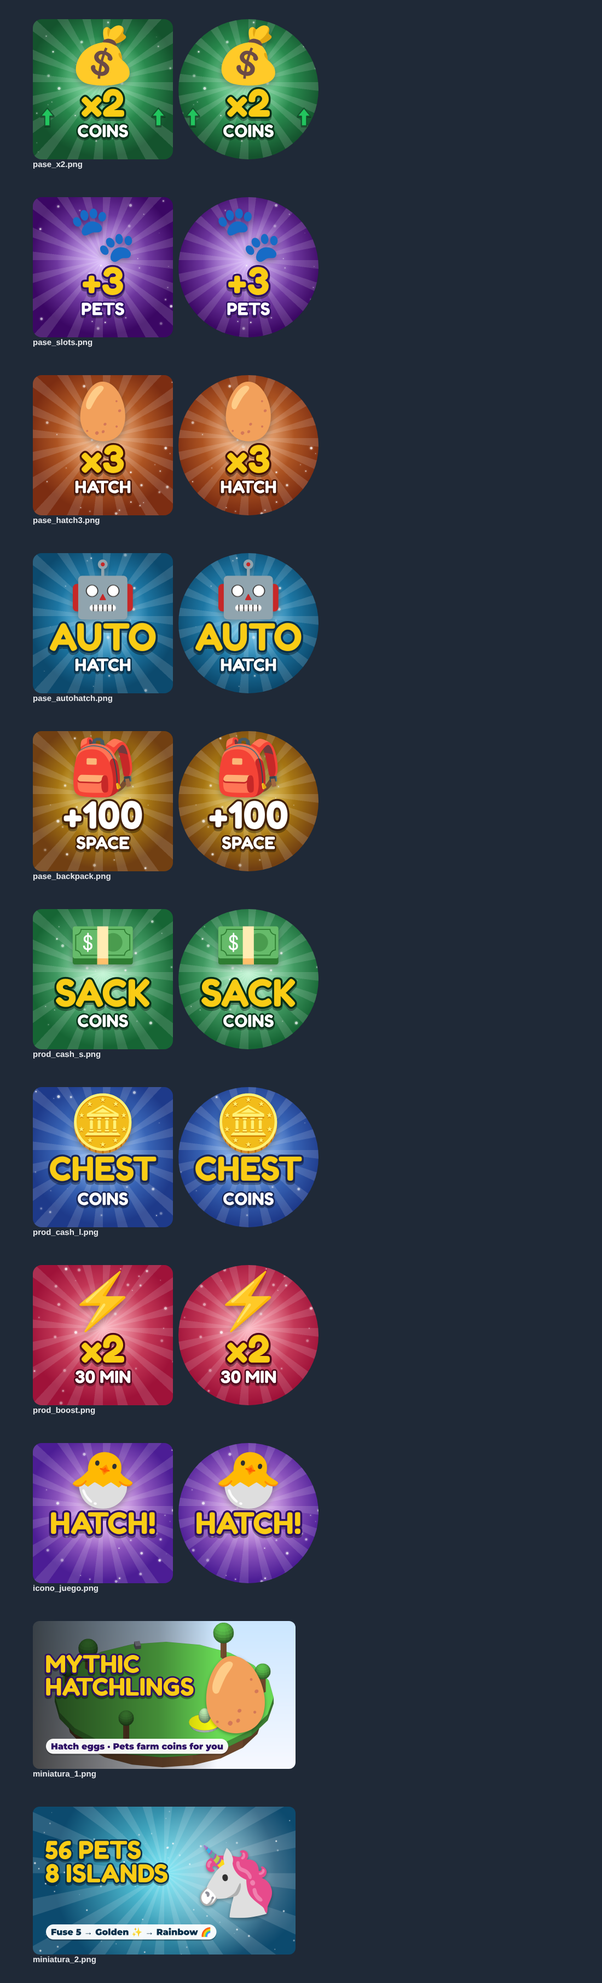
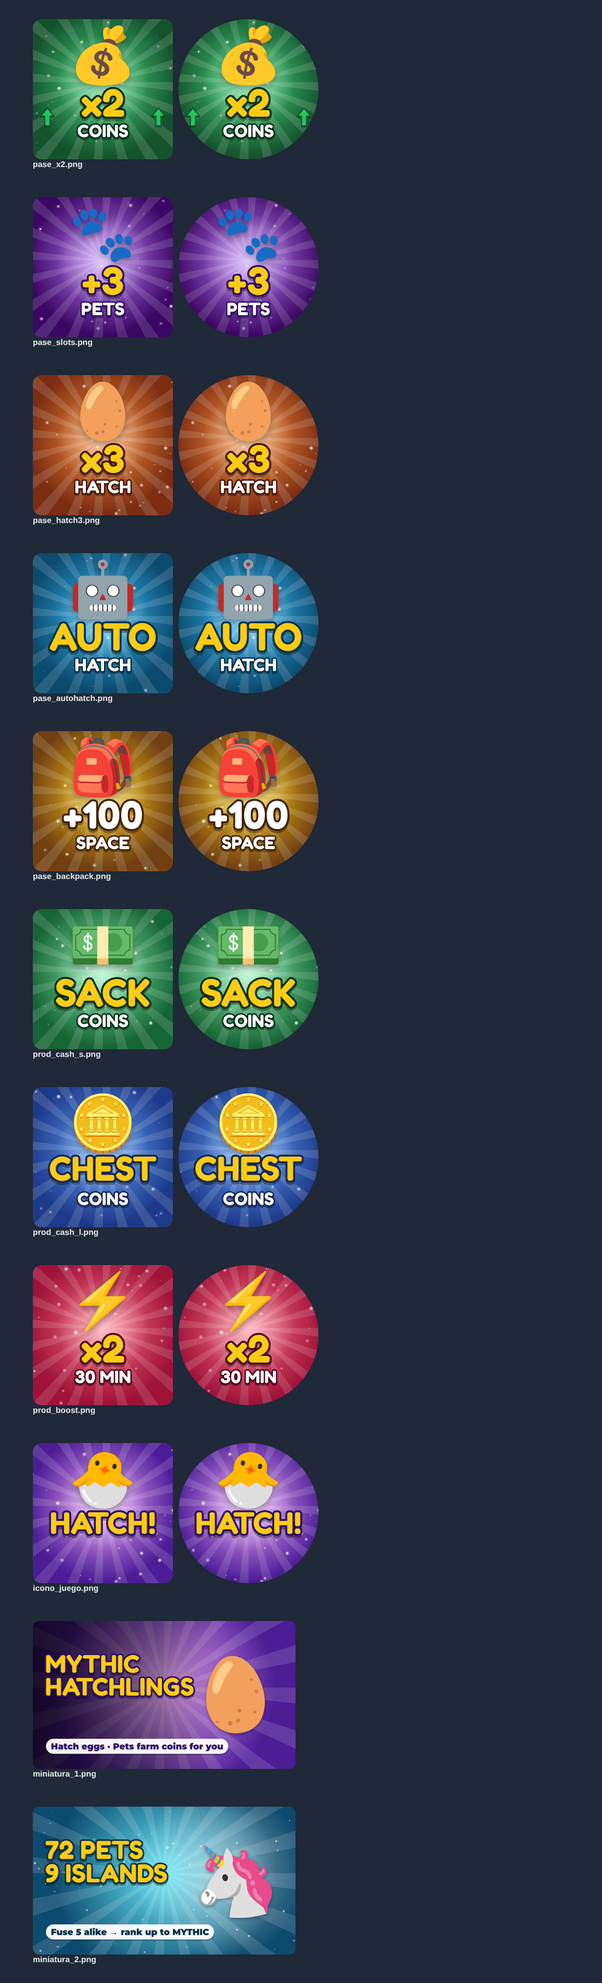
Crías Míticas: marketing y miniatura 2 al día con la v0.4
Ficha ES/EN, notas v0.4, guiones y plan sin Renacer ni Dorada/Arcoíris.
Miniatura 2: 72 crías, 9 islas, fusión hasta Mítica.

Claude-Session: https://claude.ai/code/session_01TK9z3JhdpesQ8a3fbhWHzn

Changed region(s): [[0.0309, 0.8114, 0.4945, 0.9674]]

diff --git a/roblox-crias-miticas/marketing/plan.md b/roblox-crias-miticas/marketing/plan.md
@@ -1,64 +1,68 @@
-# Plan de lanzamiento gratis — Mythic Hatchlings (3 semanas)
+# Plan de lanzamiento gratis — Mythic Hatchlings v0.4 (3 semanas)
 
 **Meta final:** 250 jugadores activos **16+ con edad verificada** para que Roblox quite la limitación 16+
-(CLAUDE.md raíz §11; la regla exacta y cómo cuenta «activo» la decide Roblox: ≈, no la he podido medir).
+(CLAUDE.md raíz §11; cómo cuenta «activo» lo decide Roblox: ≈, no lo he podido medir).
 **Coste:** 0 Robux. La opción de pago (50.000 Robux reembolsables) no es realista ahora (tienes ~7).
 
-> ⚠ Lo más importante: mientras dure la limitación, **solo pueden entrar personas de 16+ con la edad verificada**.
-> Tus amigos de clase de menos de 16 no cuentan (ni pueden entrar). Busca: hermanos mayores, primos, amigos 16+,
-> comunidades de Roblox de adultos/adolescentes mayores. Esto hace que 250 sea **difícil**: puede tardar más de 3 semanas.
+> ⚠ Mientras dure la limitación, **solo entran personas de 16+ con la edad verificada**. Amigos de menos de 16 no
+> cuentan (ni pueden entrar). Busca hermanos mayores, primos, amigos 16+. Por eso 250 es **difícil**: puede tardar más de 3 semanas.
+
+**Qué vendemos (v0.4):** abres huevos → tus crías rompen cristales → fusionas 5 iguales en el Altar → subes de rareza
+hasta **Mítica** → cada Mítica da 1 **Piedra de Renacimiento** → la gastas en el **Jardín de Mejoras** (12 pedestales con
+caminos de neón). Islas que se abren con el **Álbum**, **Brillantes** al 1 % e isla 9 Aurora con 200 de puntuación Brillante.
+**Ya no existen** Renacer como reinicio, Doradas ni Arcoíris: no los menciones en ningún sitio.
 
 ## Semana 0 — Antes de publicar (1–2 días)
-- [ ] Probar en Studio (Play) y hacer **3–4 capturas reales**: crías siguiéndote, apertura de huevo, una Dorada, una isla
-      avanzada. Sirven para miniaturas mejores y para los vídeos. (Pásaselas a Claude para rehacer `miniatura_1`.)
-- [ ] Publicar (Studio → File → Publish to Roblox As… → nueva experiencia), activar API Services, pegar la ficha
-      (`ficha.md`), subir icono y miniaturas (`docs/arte/`).
-- [ ] Crear los 5 pases y 3 productos con los iconos de `docs/arte/` (o dejarlos para la semana 2: el juego funciona sin ellos).
-- [ ] **Grupo de Roblox** (gratis): «Mythic Hatchlings Fans». Creator Hub → Groups → Create (crear grupo cuesta
-      **100 Robux** ≈; si no llega, salta este punto y usa solo Discord). Si se crea, la experiencia puede ir en el grupo
-      más adelante; **ahora mismo no la muevas** (dueño = tu cuenta, más simple).
-- **Meta medible:** juego publicado con icono, 2 miniaturas aprobadas por moderación y la ficha ES/EN.
+- [ ] Probar en Studio (Play, con el pack de modelos importado, `modelos/LEEME.md`) y hacer **4 capturas reales**:
+      crías-animales siguiéndote entre cristales · el Altar con «¡NUEVA CRÍA!» tras fusionar · el **Jardín de Mejoras**
+      desde arriba con los caminos de neón · un huevo abriéndose con el % visible. Pásaselas a Claude para rehacer la miniatura 2.
+- [ ] **No subas `docs/arte/miniatura_2.png`**: dice «Golden/Rainbow» y «56 pets», ya no es verdad (ver `ficha.md`).
+      Sube el icono y la miniatura 1; la 2 cuando esté rehecha.
+- [ ] Publicar (Studio → File → Publish to Roblox As… → experiencia NUEVA), activar API Services, pegar la ficha
+      (`ficha.md`) y las notas (`notas-v0.4.md`).
+- [ ] Pases: solo los 5 (x2, +3 huecos, Abrir x3, Auto-abrir, Mochila). **No crear** packs de monedas ni boost
+      (con ellos los huevos se pagarían indirectamente con Robux). Se pueden dejar para la semana 2: el juego funciona sin ellos.
+- [ ] Grupo de Roblox: crear uno cuesta ≈ 100 Robux → **sáltalo** por ahora; usa Discord.
+- **Meta medible:** juego publicado con icono, 1 miniatura aprobada por moderación y la ficha ES/EN.
 
 ## Semana 1 — Amigos y primera comunidad (meta: 20–30 jugadores 16+ distintos)
-- Día 1: mensaje a 10–15 personas 16+ que conozcas, con el enlace del juego. Texto:
-  - ES: «He hecho mi primer juego de Roblox: abres huevos y tus crías rompen monedas por ti. ¿Lo pruebas 10 minutos y me dices qué mejorarías? [enlace]»
-  - EN: «I made my first Roblox game: hatch eggs and your pets break coin piles for you. Can you try it for 10 min and tell me what to improve? [link]»
+- Día 1: mensaje a 10–15 personas 16+ que conozcas, con el enlace:
+  - ES: «He hecho mi primer juego de Roblox: abres huevos, tus crías rompen cristales y fusionas 5 iguales para subirlas hasta Mítica. ¿Lo pruebas 15 minutos y me dices qué mejorarías? [enlace]»
+  - EN: «I made my first Roblox game: hatch eggs, your pets break crystals, and you fuse 5 alike to rank them up to Mythic. Can you try it for 15 min and tell me what to improve? [link]»
 - **Discord** (gratis, 13+): servidor «Mythic Hatchlings» con 5 canales:
-  `#📢novedades-updates` · `#💬general` · `#🐣mis-crías-my-pets` (capturas de raras) · `#🐛fallos-bugs` · `#💡ideas`.
-  Normas fijas: nada de datos personales, nada de intercambiar cuentas ni Robux, ser amable. Activa el filtro
-  automático de contenido (AutoMod) y verificación de nivel «Medio».
-- Vídeos 1 y 2 (`videos.md`), en ES y EN.
-- **Mirar:** visitas totales, «Unique players», duración media de sesión.
+  `#📢novedades-updates` · `#💬general` · `#🐣mis-crías-my-pets` (capturas de Míticas y Brillantes) · `#🐛fallos-bugs` · `#💡ideas`.
+  Normas fijas: nada de datos personales, nada de intercambiar cuentas ni Robux, ser amable. Activa AutoMod y
+  verificación de nivel «Medio».
+- Vídeos 1 y 5 de `videos.md` (se graban en los primeros minutos de juego), en ES y EN.
+- **Mirar:** visitas, jugadores únicos, duración media de sesión.
 
 ## Semana 2 — Vídeos y evento de lanzamiento (meta: 80–120 acumulados)
-- 3–4 vídeos más (vídeo 3 + variaciones). Responder a todos los comentarios.
-- **Evento de lanzamiento** (sábado o domingo, 1 hora, p. ej. 18:00 hora de España = 12:00 en Nueva York EST): tú juegas
-  en directo dentro del juego con quien venga. Anúncialo 3 días antes en Discord, grupo y vídeos.
-  Lo que es verdad y puedes decir: «Play with friends: +10% coins for each friend in the server» y «Who gets the first
-  Mythic?». **No prometas premios en Robux** ni sorteos (no tienes Robux y los sorteos tienen reglas legales).
-  Premio posible gratis: mención en Discord + rol «🐣 Fundador/Founder».
-- Pedir valoración: «Si te ha gustado, dale 👍 en la página del juego» (es legítimo pedirlo; no lo pongas como requisito de nada).
-- **Mirar:** retención D1 (≥ 15 % sería bueno para empezar ≈), duración de sesión (≥ 8 min ≈), nº de 👍.
+- Vídeos 3 y 4 (+ el 2 si ya creaste una Mítica de verdad). Responder a todos los comentarios.
+- **Evento de lanzamiento** (sábado o domingo, 1 hora, p. ej. 18:00 hora de España = 12:00 en Nueva York): juegas con quien
+  venga. Anúncialo 3 días antes en Discord y en los vídeos. Lo que es verdad y puedes decir:
+  «+10 % coins for each friend in your server» y «Who fuses the most today?» / «¿Quién fusiona más hoy?».
+  Como cada 3 min sale un **Montón Dorado**, en 1 hora hay ≈ 20: «¡Rompamos los Montones Dorados juntos!» es verdad.
+  **No prometas premios en Robux ni sorteos.** Premio gratis: mención en Discord + rol «🐣 Fundador/Founder».
+- Pedir valoración: «Si te ha gustado, dale 👍 en la página del juego» (legítimo; nunca como requisito de nada).
+- **Mirar:** retención D1 (≥ 15 % ≈ buen inicio), duración de sesión (≥ 10 min ≈), nº de 👍.
 
-## Semana 3 — Arreglar lo que diga la gente y versión 0.4 (meta: 150–250)
-- Leer `#fallos-bugs` y `#ideas` → pasar a Claude los 3 problemas más repetidos.
-- Sacar la v0.4 (arte 3D de las crías) con **miniatura nueva** y notas de versión: las actualizaciones visibles atraen
-  de vuelta a quien ya jugó.
-- 2.º evento (mismo formato) y otro vídeo «nueva actualización» (solo si de verdad hay algo nuevo).
-- Si no se llega a 250: es normal; seguir el mismo ritmo semanal (2–3 vídeos + 1 evento). No compres anuncios aún.
+## Semana 3 — Arreglar lo que diga la gente (meta: 150–250)
+- Leer `#fallos-bugs` y `#ideas` → pasar a Claude los 3 problemas más repetidos (p. ej. «no encuentro el Altar»,
+  «la mochila se llena», «tardo mucho en la 1.ª Mítica»).
+- Si sale una versión con algo nuevo de verdad: miniatura nueva + notas + vídeo «actualización».
+- 2.º evento con el mismo formato.
+- Si no se llega a 250: es normal; seguir 2–3 vídeos + 1 evento por semana. No compres anuncios aún.
 
 ## Qué medir en el Creator Hub (tras publicar)
 Creator Hub → Creations → Mythic Hatchlings → **Analytics**:
 
-| Métrica | Dónde | Qué indica | Señal buena (≈ orientativa) |
+| Métrica | Qué indica | Señal buena (≈ orientativa) | Si va mal |
 |---|---|---|---|
-| Visitas y jugadores únicos | Overview / Acquisition | si llega gente | crecer cada semana |
-| **Retención D1 y D7** | Retention | si vuelven | D1 ≥ 15 %, D7 ≥ 4 % al principio |
-| **Duración media de sesión** | Engagement | si engancha | ≥ 8–10 min |
-| Conversión de la ficha (impresiones → jugadas) | Acquisition / Discovery | si el icono y la miniatura atraen | si es baja, cambiar icono/miniatura 1 |
-| Abandono en los primeros 5 min | Engagement / Funnel (si existe) | si el inicio aburre | — |
-| 👍 / 👎 | página del juego | opinión | ≥ 80 % 👍 |
-| Compras y conversión de pago | Monetization | solo informativo; no es la meta ahora | — |
-| Edad de jugadores (si aparece) | Audience | cuántos 16+ hay | — |
+| Visitas y jugadores únicos | si llega gente | crecer cada semana | más vídeos / cambiar miniatura |
+| Conversión de la ficha (impresiones → jugadas) | si icono y miniatura atraen | — | probar otra miniatura (captura real del Jardín) |
+| **Duración media de sesión** | si engancha | ≥ 10 min | el inicio (1.ª fusión ~3 min) no se entiende → Vega/Nico |
+| **Retención D1 / D7** | si vuelven | D1 ≥ 15 %, D7 ≥ 4 % | la meta larga (Mítica → piedras) no se ve → Nico |
+| 👍 / 👎 | opinión | ≥ 80 % 👍 | leer comentarios y Discord |
+| Edad de jugadores (si aparece) | cuántos 16+ | — | buscar comunidades 16+ |
 
-Mándale los números a Claude (captura de la pantalla de Analytics) y te digo qué cambiar.
+Mándale a Claude una captura de Analytics y te digo qué cambiar.

diff --git a/roblox-crias-miticas/marketing/ficha.md b/roblox-crias-miticas/marketing/ficha.md
@@ -1,81 +1,97 @@
-# Ficha del juego — Mythic Hatchlings (Crías Míticas) · v0.3
+# Ficha del juego — Mythic Hatchlings (Crías Míticas) · v0.4
 
 > Para pegar en Creator Hub → la experiencia → **Configure** (inglés = idioma principal) y en
-> **Localization → Game Information → Spanish** (versión en español). Todo lo que dice existe en la v0.3.
+> **Localization → Game Information → Spanish** (versión en español). Todo lo que dice existe en la v0.4
+> (números sacados de `src/ReplicatedStorage/Config.luau` y `Lang.luau`, 2026-10-26).
+> Ya **no** existen (no los menciones nunca): Renacer/Rebirth como reinicio, crías Doradas/Arcoíris, puertas que cuestan monedas.
 
 ## Título
 
 | | Texto | Por qué |
 |---|---|---|
-| **EN (principal)** | `Mythic Hatchlings: Hatch & Collect Pets` | Nombre propio + lo que haces. «Hatch» y «Pets» son lo que la gente busca en Roblox. 39 caracteres (límite 50). |
-| **ES** | `Crías Míticas: Abre Huevos y Colecciona` | Mismo esquema en español. |
+| **EN (principal)** | `Mythic Hatchlings: Hatch & Fuse Pets` | Nombre propio + las 2 acciones del juego. «Hatch» y «Pets» son lo que la gente busca; «Fuse» dice qué lo hace distinto. 36 caracteres (límite 50). |
+| **ES** | `Crías Míticas: Abre Huevos y Fusiona` | Mismo esquema en español. 36 caracteres. |
 
-Sin emojis en el título: Roblox ha ido limitando símbolos en los títulos y no hacen falta (≈ no lo he comprobado hoy).
-Nunca: «Simulator» con nombre de otro juego, «Free», «UPDATE» falso ni «x1000».
+Sin emojis en el título (≈ Roblox limita símbolos en títulos; no lo he comprobado hoy). Nunca: «Free», «UPDATE» falso, «x1000» ni el nombre de otro juego.
 
 ## Descripción EN (≤ 1.000 caracteres)
 
 ```
-Hatch magical eggs and collect 56 mythic pets that follow you and break coin piles for you! 🐣
-Unlock 8 floating islands, fuse pets into Golden and Rainbow versions, and complete the Pet Index.
+Hatch eggs and collect 72 pets that follow you and break crystals for coins! 🐣
+Fuse 5 alike to rank them up all the way to Mythic, earn Rebirth Stones and grow your Upgrade Garden.
 
-🥚 8 islands, 8 eggs, 56 pets (Common → Mythic) – odds shown on every egg
-✨ Fuse 5 of the same pet → Golden (x3 power) → Rainbow (x9)
-📖 Pet Index: collect them all for permanent coin bonuses
-🔁 Rebirth for a permanent coin multiplier (you keep your pets!)
-🎯 3 daily missions + 7-day daily reward streak
+🥚 9 islands, 72 pets, 8 rarities: Common → Uncommon → Rare → Epic → Legendary → Prodigious → Ascended → Mythic
+🌀 Fusion Altar: 5 alike from one island → the next rarity (3 from Prodigious)
+🪨 Every Mythic you create = 1 Rebirth Stone
+🌳 Upgrade Garden: 12 upgrades on glowing pedestals (more coins, more pets equipped, faster hatching…)
+📖 Discover pets in the Index to open new islands
+✨ 1% Shiny pets (x2 power). Reach 200 Shiny score to open island 9: Aurora Sanctuary
+🌟 A Golden Pile appears every 3 minutes
+🎯 3 daily missions + 7-day reward streak
 👥 +10% coins for each friend in your server (up to 4)
 🌍 English & Español
 
-Eggs are bought with in-game coins. Every egg shows its odds.
-
-v0.3: islands 4–8 (Golden Dunes, Ember Volcano, Crystal Glacier, Cloud Sea, Cosmos), Rebirth, daily missions and offline coins.
+Eggs are bought with in-game coins and show their odds. Stones and upgrades are earned only by playing.
 ```
 
 ## Descripción ES
 
 ```
-¡Abre huevos mágicos y colecciona 56 crías míticas que te siguen y rompen montones de monedas por ti! 🐣
-Abre 8 islas flotantes, fusiona tus crías en versión Dorada y Arcoíris y completa el Álbum Mítico.
+¡Abre huevos y colecciona 72 crías que te siguen y rompen cristales para darte monedas! 🐣
+Fusiona 5 iguales para subirlas de rareza hasta Mítica, gana Piedras de Renacimiento y haz crecer tu Jardín de Mejoras.
 
-🥚 8 islas, 8 huevos, 56 crías (Común → Mítica): probabilidades a la vista en cada huevo
-✨ Junta 5 iguales → Dorada (poder x3) → Arcoíris (x9)
-📖 Álbum Mítico: colecciónalas todas y gana bonus de monedas para siempre
-🔁 Renace para multiplicar tus monedas para siempre (¡conservas tus crías!)
-🎯 3 misiones diarias + racha de recompensa diaria de 7 días
+🥚 9 islas, 72 crías y 8 rarezas: Común → Poco común → Rara → Épica → Legendaria → Prodigiosa → Ascendida → Mítica
+🌀 Altar de Fusión: 5 iguales de una isla → la rareza siguiente (3 desde Prodigiosa)
+🪨 Cada Mítica que creas = 1 Piedra de Renacimiento
+🌳 Jardín de Mejoras: 12 mejoras en pedestales (más monedas, más crías equipadas, abrir más rápido…)
+📖 Descubre crías en el Álbum para abrir islas nuevas
+✨ Brillantes al 1 % (poder x2). Con 200 de puntuación Brillante se abre la isla 9: Santuario Aurora
+🌟 Cada 3 minutos aparece un Montón Dorado
+🎯 3 misiones diarias + racha diaria de 7 días
 👥 +10 % de monedas por cada amigo en tu servidor (máx. 4)
 🌍 English y Español
 
-Los huevos se compran con monedas del juego. Cada huevo muestra sus probabilidades.
-
-v0.3: islas 4–8 (Dunas Doradas, Volcán Brasa, Glaciar Cristal, Mar de Nubes, Cosmos), Renacer, misiones diarias y monedas sin conexión.
+Los huevos se compran con monedas del juego y muestran sus probabilidades. Piedras y mejoras solo se ganan jugando.
 ```
 
+(Las notas de la versión van aparte: `notas-v0.4.md`. Si quieres, pégalas debajo de la descripción.)
+
 ### Por qué estas frases
-- **Línea 1** = qué haces + la gracia (las crías trabajan por ti). Es lo único que mucha gente lee en el móvil.
-- **Línea 2** = la meta larga (islas, fusión, álbum) → motivo para volver.
-- Lista corta con números reales (56 / 8 / x3 / x9 / +10 %) sacados de `Config.luau`, no inventados.
-- «Odds shown» genera confianza en padres y jugadores. NO decir «never with Robux»: si se crean los packs de monedas
-  (cash_s/cash_l), los huevos se podrían pagar indirectamente con Robux. En ese momento revisar la norma de artículos
-  aleatorios de pago (cuestionario y PolicyService) antes de publicar.
-- No se mencionan pases ni precios: la ficha vende el juego, la tienda va dentro.
-- No se nombra ningún otro juego.
+- **Línea 1** = qué haces + la gracia (las crías trabajan por ti). En el móvil es casi lo único que se lee.
+- **Línea 2** = la meta larga en orden real: fusión → Mítica → piedras → Jardín. Es lo que hace volver.
+- La cadena de 8 rarezas escrita entera: enseña que hay mucho camino sin prometer tiempos.
+- «Los huevos… muestran sus probabilidades» y «piedras y mejoras solo se ganan jugando» dan confianza a padres y jugadores
+  y son verdad (la tienda solo tiene pases; ver abajo).
+- **No** digo cuánto se tarda en la 1.ª Mítica: según el bot ≈ 2 h, una persona ≈ 4 h (DISENO.md §5). Prometer «rápido» sería engañoso.
+- No nombra ningún otro juego ni menciona pases o precios: la ficha vende el juego.
 
 ## Ajustes recomendados (Creator Hub)
 
 | Ajuste | Valor |
 |---|---|
-| Género | **Simulation** (Roblox lo usa para «pet / collecting») |
-| Subgénero (si lo pide) | Incremental / Collecting |
-| Dispositivos | Todos (PC, móvil, tableta, consola). La interfaz está probada en PC y móvil con capturas, no en consola |
-| Max Players | **8** (las islas son compartidas; ≈ el valor que ya esté en el lugar manda) |
-| Cuestionario de contenido | Todo «No». Artículos aleatorios de pago: **No** (los huevos solo se compran con monedas) |
+| Género | **Simulation** (≈ es donde Roblox pone los juegos de mascotas/coleccionar) |
+| Dispositivos | Todos. Interfaz probada con capturas en PC y móvil; consola **sin probar** |
+| Max Players | **8** (islas compartidas; manda el valor que ya tenga el lugar) |
+| Cuestionario de contenido | Todo «No». Artículos aleatorios de pago: **No**, siempre que solo se creen los **5 pases** |
 | Idioma principal | English; añadir traducción Spanish en Localization |
-| Icono | `docs/arte/icono_juego.png` |
-| Miniaturas | 1.ª `docs/arte/miniatura_1.png`, 2.ª `docs/arte/miniatura_2.png` (cambiar por capturas reales de Studio cuando las haya, ver plan.md) |
+| Icono | `docs/arte/icono_juego.png` (sigue valiendo: huevo + «HATCH!») |
+| Miniaturas | Ver aviso ⚠ abajo |
 
-## Palabras clave (para tus vídeos, grupo y Discord; Roblox no tiene campo de etiquetas libre)
+### ⚠ Monetización: solo pases
+- Pases (`Config.GamePasses`): Monedas x2, +3 huecos, Abrir x3, Auto-abrir, Mochila +100. Ninguno da huevos, suerte, piedras ni mejoras.
+- En `Config.Products` siguen los packs de monedas y el boost (`cash_s`, `cash_l`, `boost`, con `id = 0` = no se venden).
+  **No los crees**: con monedas compradas se podrían pagar huevos (aleatorios) con Robux y la respuesta del cuestionario
+  dejaría de ser «No». Si algún día se crean, hay que cambiar esta ficha y el cuestionario.
 
-EN: `pet simulator game`, `hatch eggs`, `collect pets`, `mythic pets`, `rainbow pets`, `floating islands`, `roblox pets`, `idle`
-ES: `abrir huevos`, `coleccionar mascotas`, `mascotas míticas`, `juego de mascotas roblox`, `islas flotantes`
-Hashtags vídeos: `#roblox #robloxpets #hatching #mythichatchlings #robloxgame` (ES: `#robloxespañol`)
+### ⚠ Miniaturas: la 2 está desfasada
+- `docs/arte/miniatura_2.png` dice **«56 PETS · 8 ISLANDS · Fuse 5 → Golden → Rainbow»**: ya no es verdad. **No la subas.**
+- `docs/arte/miniatura_1.png` («Hatch eggs · Pets farm coins for you») sigue siendo correcta.
+- Propuesta para rehacer la 2 (lo hace quien pueda tocar `docs/arte/encargo.json`, con la skill `arte-roblox`):
+  título `72 PETS\n9 ISLANDS`, subtítulo `Fuse 5 → … → MYTHIC 🌀`, emoji `🪨` o `🌳`.
+  Mejor aún: una **captura real** del Jardín de Mejoras con los caminos de neón encendidos (ver `plan.md`, semana 0).
+
+## Palabras clave (para vídeos, grupo y Discord; Roblox no tiene campo de etiquetas libre)
+
+EN: `pet game`, `hatch eggs`, `fuse pets`, `collect pets`, `mythic pets`, `shiny pets`, `upgrade tree`, `roblox pets`
+ES: `abrir huevos`, `fusionar mascotas`, `coleccionar mascotas`, `mascotas míticas`, `mascotas brillantes`, `juego de mascotas roblox`
+Hashtags: `#roblox #robloxpets #hatching #mythichatchlings #robloxgame` (ES: `#robloxespañol`)

diff --git a/roblox-crias-miticas/marketing/videos.md b/roblox-crias-miticas/marketing/videos.md
@@ -1,43 +1,62 @@
-# Guiones de vídeos cortos (TikTok / YouTube Shorts) — 15–30 s, vertical 9:16
+# Guiones de vídeos cortos (TikTok / YouTube Shorts) — 15–30 s, vertical 9:16 · v0.4
 
 Reglas para todos:
-- **Grabar el juego real** en Studio (Play) o en Roblox. Nada de escenas que no existan.
-- Grabar: en Windows, **Win + G** (Xbox Game Bar) → botón de grabar; (Roblox ya no trae grabador de vídeo propio, ≈).
-  Ventana de Roblox estrecha o recortar luego a vertical en CapCut (gratis).
-- Texto en pantalla grande, máx. 6 palabras a la vez. Subtítulos ES en un vídeo, EN en otro (mismo clip).
+- **Grabar el juego real** (Studio → Play, o Roblox ya publicado). Nada de escenas, crías o funciones que no existan.
+  En la v0.4 **no hay** Doradas, Arcoíris ni Renacer como reinicio: no los nombres.
+- **No trucar el progreso** para el vídeo (dar piedras o Míticas con código). Si una escena tarda (la 1.ª Mítica ≈ 4 h de
+  juego normal, DISENO.md §5), graba lo que tengas de verdad y cambia el texto («Voy por la Legendaria…»).
+- Grabar en Windows: **Win + G** (Xbox Game Bar) → grabar. Recortar a vertical en CapCut (gratis).
+- Texto en pantalla grande, máx. 6 palabras a la vez. Un vídeo con texto ES y otro con EN (mismo clip).
 - Llamada a la acción honesta: «Search *Mythic Hatchlings* on Roblox» / «Búscalo en Roblox: *Mythic Hatchlings*».
-- ⚠ **Edad**: TikTok, YouTube y Discord piden **13 años mínimo** (en España TikTok pide 14 para registrarse sin
-  permiso de los padres). Si la cuenta la lleva alguien más joven, que la gestione un adulto.
-- ⚠ Mientras el juego esté limitado a **16+**, quien vea el vídeo y tenga menos de 16 no podrá entrar. Los vídeos
-  sirven igual (seguidores para cuando se abra), pero la meta de 250 la cuentan solo jugadores 16+ verificados.
+- ⚠ **Edad**: TikTok, YouTube y Discord piden **13 años** (TikTok en España: 14 sin permiso de los padres). Si quien lleva
+  la cuenta es más joven, que la gestione un adulto.
+- ⚠ Mientras el juego esté limitado a **16+**, quien tenga menos de 16 no podrá entrar aunque vea el vídeo.
 
 ---
 
-## Vídeo 1 — «Mi primer Mítico» (20 s) · el más fuerte
+## Vídeo 1 — «5 iguales = ¿qué sale?» (15–20 s) · el más fácil de grabar (minuto 2 de juego)
 | Seg. | Plano (qué grabar) | Texto en pantalla |
 |---|---|---|
-| 0–2 | **Gancho**: primer plano de la ventana de apertura del huevo justo antes de salir la cría, con las probabilidades visibles | «0,2 % de probabilidad…» |
-| 2–8 | Abrir huevos seguidos (cortes rápidos), salen Comunes y Poco comunes | «Abro huevos hasta que salga» |
-| 8–14 | Sale una Legendaria o Mítica (graba hasta que te salga una de verdad; si tarda, usa una Épica y cambia el texto) | «¡¡POR FIN!!» |
-| 14–20 | La cría te sigue y rompe un montón de monedas, «+🪙» volando | «Search: Mythic Hatchlings 🐣» |
-Qué NO hacer: no editar la rareza ni fingir la probabilidad.
+| 0–2 | **Gancho**: ventana 🐾 Crías con 5 crías Comunes iguales en fila | «¿Qué pasa si juntas 5?» / «What if you fuse 5?» |
+| 2–7 | Caminas al Altar de Fusión (junto a la aparición) y aparece «Fusionar» | «Al Altar 🌀» |
+| 7–13 | Pulsas Fusionar → «¡NUEVA CRÍA!» Poco común | «¡Sube de rareza!» / «Rarity UP!» |
+| 13–18 | La cría nueva siguiéndote; encima, en CapCut, la cadena de rarezas Común → … → Mítica | «Faltan 7 para Mítica 👀» |
+| 18–20 | Nombre | «Mythic Hatchlings 🐣 Roblox» |
 
-## Vídeo 2 — «5 iguales = Dorada» (15 s)
+## Vídeo 2 — «Mi primera Mítica» (20–25 s) · el más fuerte, cuando llegues de verdad
 | Seg. | Plano | Texto |
 |---|---|---|
-| 0–2 | **Gancho**: pantalla 🐾 Crías con 5 crías iguales en fila | «¿Qué pasa si juntas 5?» |
-| 2–8 | Pulsas Fusionar → aparece la Dorada | «DORADA = x3 de poder» |
-| 8–13 | Muestras en el Álbum la casilla Arcoíris aún vacía | «Siguiente: ARCOÍRIS 🌈 (x9)» |
-| 13–15 | Logo/nombre | «Mythic Hatchlings — en Roblox» |
+| 0–2 | **Gancho**: 3 crías Ascendidas en el Altar, justo antes de pulsar | «3 Ascendidas…» |
+| 2–8 | Pulsas Fusionar → sale la Mítica y el aviso 🪨 «¡Piedra de Renacimiento!» | «¡¡MÍTICA!!» / «MYTHIC!!» |
+| 8–16 | Caminas al Jardín de Mejoras y compras el 1.er pedestal (Raíz Dorada): se pone verde neón | «1 Mítica = 1 piedra 🪨» |
+| 16–22 | La Mítica (más grande) siguiéndote y rompiendo un cristal, «+🪙» grande | «Search: Mythic Hatchlings» |
+Solo cuando tengas la Mítica de verdad. Mientras, el vídeo 1 y el 3.
 
-## Vídeo 3 — «De la isla 1 al Cosmos» (25–30 s)
+## Vídeo 3 — «Un árbol de mejoras… con piedras» (20 s)
 | Seg. | Plano | Texto |
 |---|---|---|
-| 0–2 | **Gancho**: la puerta de la isla siguiente abriéndose (o el puente con el precio) | «Desbloqueé las 8 islas» |
-| 2–20 | 1 clip de 2 s por isla: Pradera → Bosque Seta → Playa Coral → Dunas → Volcán → Glaciar → Nubes → Cosmos (solo las que tengas de verdad; si no llegas al Cosmos, termina en la última y cambia el texto a «Voy por la isla X») | Nombre de cada isla |
-| 20–26 | Tus crías rompiendo un montón grande | «¿Hasta dónde llegas tú?» |
-| 26–30 | Nombre | «Mythic Hatchlings 🐣 Roblox» |
+| 0–2 | **Gancho**: vista desde arriba del Jardín con los 12 pedestales y los caminos de neón (grises/amarillos/verdes) | «12 mejoras. Cada una cuesta 🪨» |
+| 2–10 | Recorres un camino: verde = comprada, amarillo con pulso = puedes comprar, gris = bloqueada | «Verde ✅ Amarillo 🟡 Gris 🔒» |
+| 10–16 | Ventana 🌳 Mejoras con la Corona del Jardín al final (100 🪨) | «La última: 👑 100 piedras» |
+| 16–20 | Nombre | «¿Cuántas tienes tú? · Mythic Hatchlings» |
+Si aún no tienes piedras, graba igual el Jardín (siempre abierto) con todo en gris: es verdad y crea curiosidad.
 
-Ritmo: 1 vídeo cada 2–3 días durante las 3 semanas (≈ 8 vídeos; reutiliza clips con otro texto/idioma).
-Mejor hora para publicar: no tengo datos de tu público; prueba tarde (18–21 h) y mira qué vídeo retiene más
-(en TikTok: Analíticas → «tiempo medio de reproducción»).
+## Vídeo 4 — «1 % Brillante» (15–20 s)
+| Seg. | Plano | Texto |
+|---|---|---|
+| 0–2 | **Gancho**: apertura de huevo con el % visible | «1 % de probabilidad…» |
+| 2–10 | Huevos seguidos (cortes) hasta que sale «✨ ¡¡BRILLANTE!! ✨» (graba hasta que pase de verdad) | «¡¡BRILLANTE!!» / «SHINY!!» |
+| 10–16 | Pestaña ✨ Brillantes del Álbum y la puntuación «X / 200» | «200 = isla secreta 🌌» |
+| 16–20 | Nombre | «Mythic Hatchlings 🐣» |
+No editar la rareza ni el porcentaje. «Isla secreta» vale porque la puerta de la isla 9 existe y pide 200; no enseñes la isla si no llegaste.
+
+## Vídeo 5 — «Abre islas con tu colección» (25 s)
+| Seg. | Plano | Texto |
+|---|---|---|
+| 0–2 | **Gancho**: puerta cerrada con «📖 Descubre 3 crías» | «Esta puerta no se paga» / «You can't buy this door» |
+| 2–15 | Descubres la 3.ª cría (cartel «¡NUEVA!») → la puerta se abre → entras en Bosque Seta | «Se abre con tu Álbum 📖» |
+| 15–22 | Clips de 2 s de las islas que tengas de verdad (Pradera, Bosque Seta, Playa Coral…) | Nombre de cada isla |
+| 22–25 | Nombre | «9 islas · Mythic Hatchlings» |
+
+Ritmo: 1 vídeo cada 2–3 días (≈ 8 en 3 semanas; reutiliza clips con otro texto/idioma). Hora: no tengo datos de tu público;
+prueba de 18 a 21 h y mira en TikTok → Analíticas → «tiempo medio de reproducción» cuál retiene más.

diff --git a/roblox-crias-miticas/marketing/notas-v0.4.md b/roblox-crias-miticas/marketing/notas-v0.4.md
@@ -1,0 +1,23 @@
+# Notas de versión 0.4 (primera versión pública)
+
+> La v0.3 nunca se publicó, así que estas son las primeras notas que verá un jugador. Por eso no dicen
+> «ya no hay Renacer»: para quien llega nuevo no ha existido nunca.
+
+## EN
+🐣 Mythic Hatchlings is open! Hatch eggs and collect 72 pets across 9 islands.
+🌀 Fuse 5 alike at the Altar to rank them up: Common → … → Mythic.
+🪨 Each Mythic you create gives a Rebirth Stone for your Upgrade Garden (12 upgrades).
+📖 Discover pets in the Index to open new islands.
+✨ 1% Shiny pets (x2 power) – 200 Shiny score opens the Aurora Sanctuary.
+🌟 Golden Pile every 3 min · 3 daily missions · 7-day rewards.
+
+## ES
+🐣 ¡Crías Míticas ya está abierto! Abre huevos y colecciona 72 crías en 9 islas.
+🌀 Fusiona 5 iguales en el Altar para subirlas de rareza: Común → … → Mítica.
+🪨 Cada Mítica que creas te da una Piedra de Renacimiento para tu Jardín de Mejoras (12 mejoras).
+📖 Descubre crías en el Álbum para abrir islas nuevas.
+✨ Crías Brillantes al 1 % (poder x2): con 200 de puntuación Brillante se abre el Santuario Aurora.
+🌟 Montón Dorado cada 3 min · 3 misiones diarias · recompensas de 7 días.
+
+> Dónde ponerlas: debajo de la descripción (`ficha.md`), en el anuncio del grupo de Roblox (si existe)
+> y en `#📢novedades-updates` de Discord.
